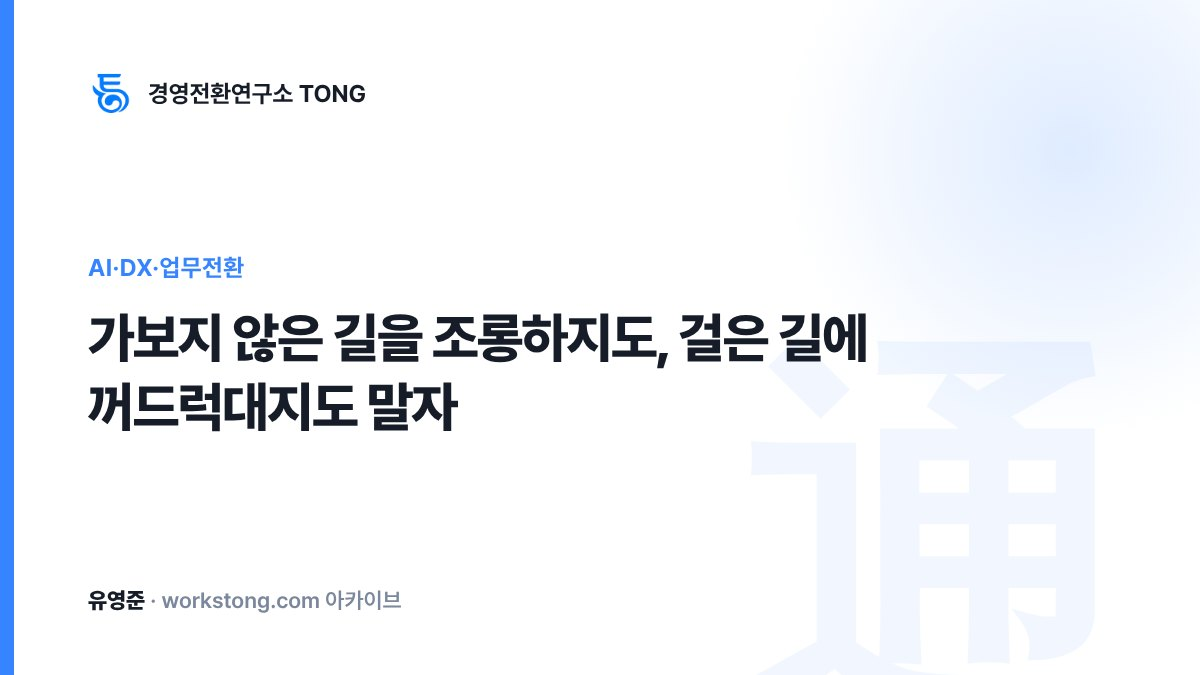
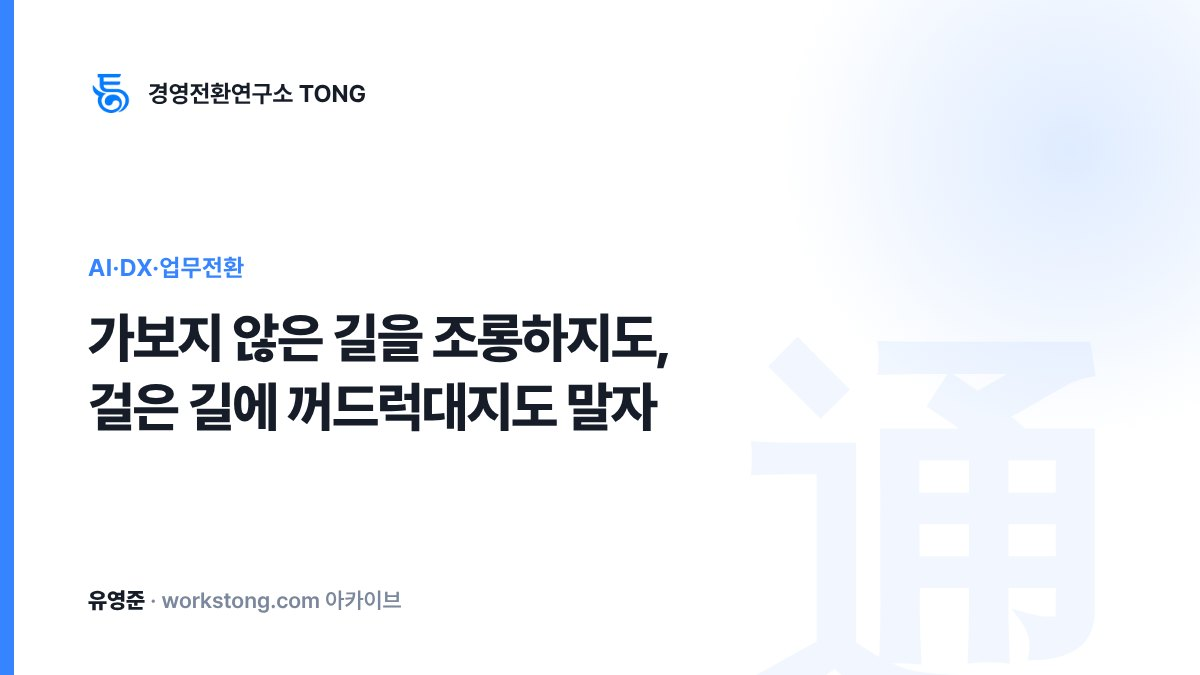
공유 이미지: 긴 제목은 쉼표·'아닌/아니라' 뒤 또는 고른 두 줄로 줄바꿈
Claude-Session: https://claude.ai/code/session_0147p2CSAJrQZivWfQGNsLv9

Changed region(s): [[0.0617, 0.56, 0.555, 0.6533], [0.555, 0.4667, 0.74, 0.56]]

diff --git a/_tools/og_build.js b/_tools/og_build.js
@@ -4,7 +4,7 @@
    실행: node _tools/og_build.js && node _build/build-archive.mjs && node _tools/prerender-nav.js */
 const {chromium}=require('playwright');const fs=require('fs'),path=require('path'),http=require('http'),crypto=require('crypto');
 const ROOT=path.resolve(__dirname,'..');const OUT=path.join(ROOT,'assets','og','archive');const MAN=path.join(OUT,'.og-manifest.json');
-const VERSION='v2';
+const VERSION='v4';
 const T=JSON.parse(fs.readFileSync(path.join(ROOT,'content','taxonomy.json'),'utf8'));
 const CAT=Object.fromEntries(T.categories.map(c=>[c.id,c.name]));const SER=Object.fromEntries(T.series.map(c=>[c.id,c.name]));
 function fm(raw){const m=raw.match(/^---\n([\s\S]*?)\n---/);const o={};for(const l of m[1].split('\n')){const k=l.match(/^([a-z_]+):\s*(.*)$/);if(k)o[k[1]]=k[2];}return o;}
@@ -21,7 +21,7 @@ body{font-family:P,sans-serif;background:#fff;position:relative;overflow:hidden;
 .brand img{height:46px}
 .mid{position:absolute;left:88px;right:130px;top:150px;bottom:130px;display:flex;flex-direction:column;justify-content:center}
 .lab{margin-bottom:22px;font-size:24px;font-weight:700;color:#3684FF;letter-spacing:.02em}
-.t{font-size:var(--fs);font-weight:820;line-height:1.28;letter-spacing:-.035em;display:-webkit-box;-webkit-line-clamp:3;-webkit-box-orient:vertical;overflow:hidden}
+.t{text-wrap:balance;font-size:var(--fs);font-weight:820;line-height:1.28;letter-spacing:-.035em;display:-webkit-box;-webkit-line-clamp:3;-webkit-box-orient:vertical;overflow:hidden}
 .foot{position:absolute;left:88px;bottom:62px;font-size:22px;color:#7b879c;font-weight:600}
 .foot b{color:#161d29}
 </style></head><body><div class="bar"></div><div class="glow"></div><div class="tong">通</div>
@@ -39,7 +39,9 @@ body{font-family:P,sans-serif;background:#fff;position:relative;overflow:hidden;
     const key=crypto.createHash('sha1').update(VERSION+'|'+title+'|'+label).digest('hex');const out=path.join(OUT,slug+'.jpg');
     if(man[slug]===key&&fs.existsSync(out)){kept++;continue;}
     srv.page=html(title,label);await pg.goto(`http://localhost:${port}/__og`);await pg.evaluate(()=>document.fonts.ready);
-    await pg.evaluate(()=>{const t=document.getElementById('t');const len=t.textContent.length;t.style.setProperty('--fs',(len<=18?72:len<=30?62:54)+'px');});
+    await pg.evaluate(()=>{const t=document.getElementById('t');const raw=t.textContent;const len=raw.length;t.style.setProperty('--fs',(len<=18?72:len<=30?62:54)+'px');
+      /* 문장이 길면 쉼표·마침표·물음표 뒤에서 줄을 나누고, 없으면 두 줄 길이를 고르게 맞춘다 */
+      if(len>16){const m=raw.match(/^(.{6,}?[,.?!·])\s+(.{4,})$/)||raw.match(/^(.{6,}?(?:아닌|아니라|아니다\.?))\s+(.{4,})$/);if(m){t.textContent='';t.append(m[1],document.createElement('br'),m[2]);}}});
     await pg.screenshot({path:out,type:'jpeg',quality:86});man[slug]=key;made++;}
   for(const k of Object.keys(man))if(!seen.has(k)){delete man[k];try{fs.unlinkSync(path.join(OUT,k+'.jpg'))}catch(e){}}
   fs.writeFileSync(MAN,JSON.stringify(man,null,1)+'\n');await b.close();srv.close();console.log('공유 이미지: 새로 그림',made,'· 그대로',kept);
